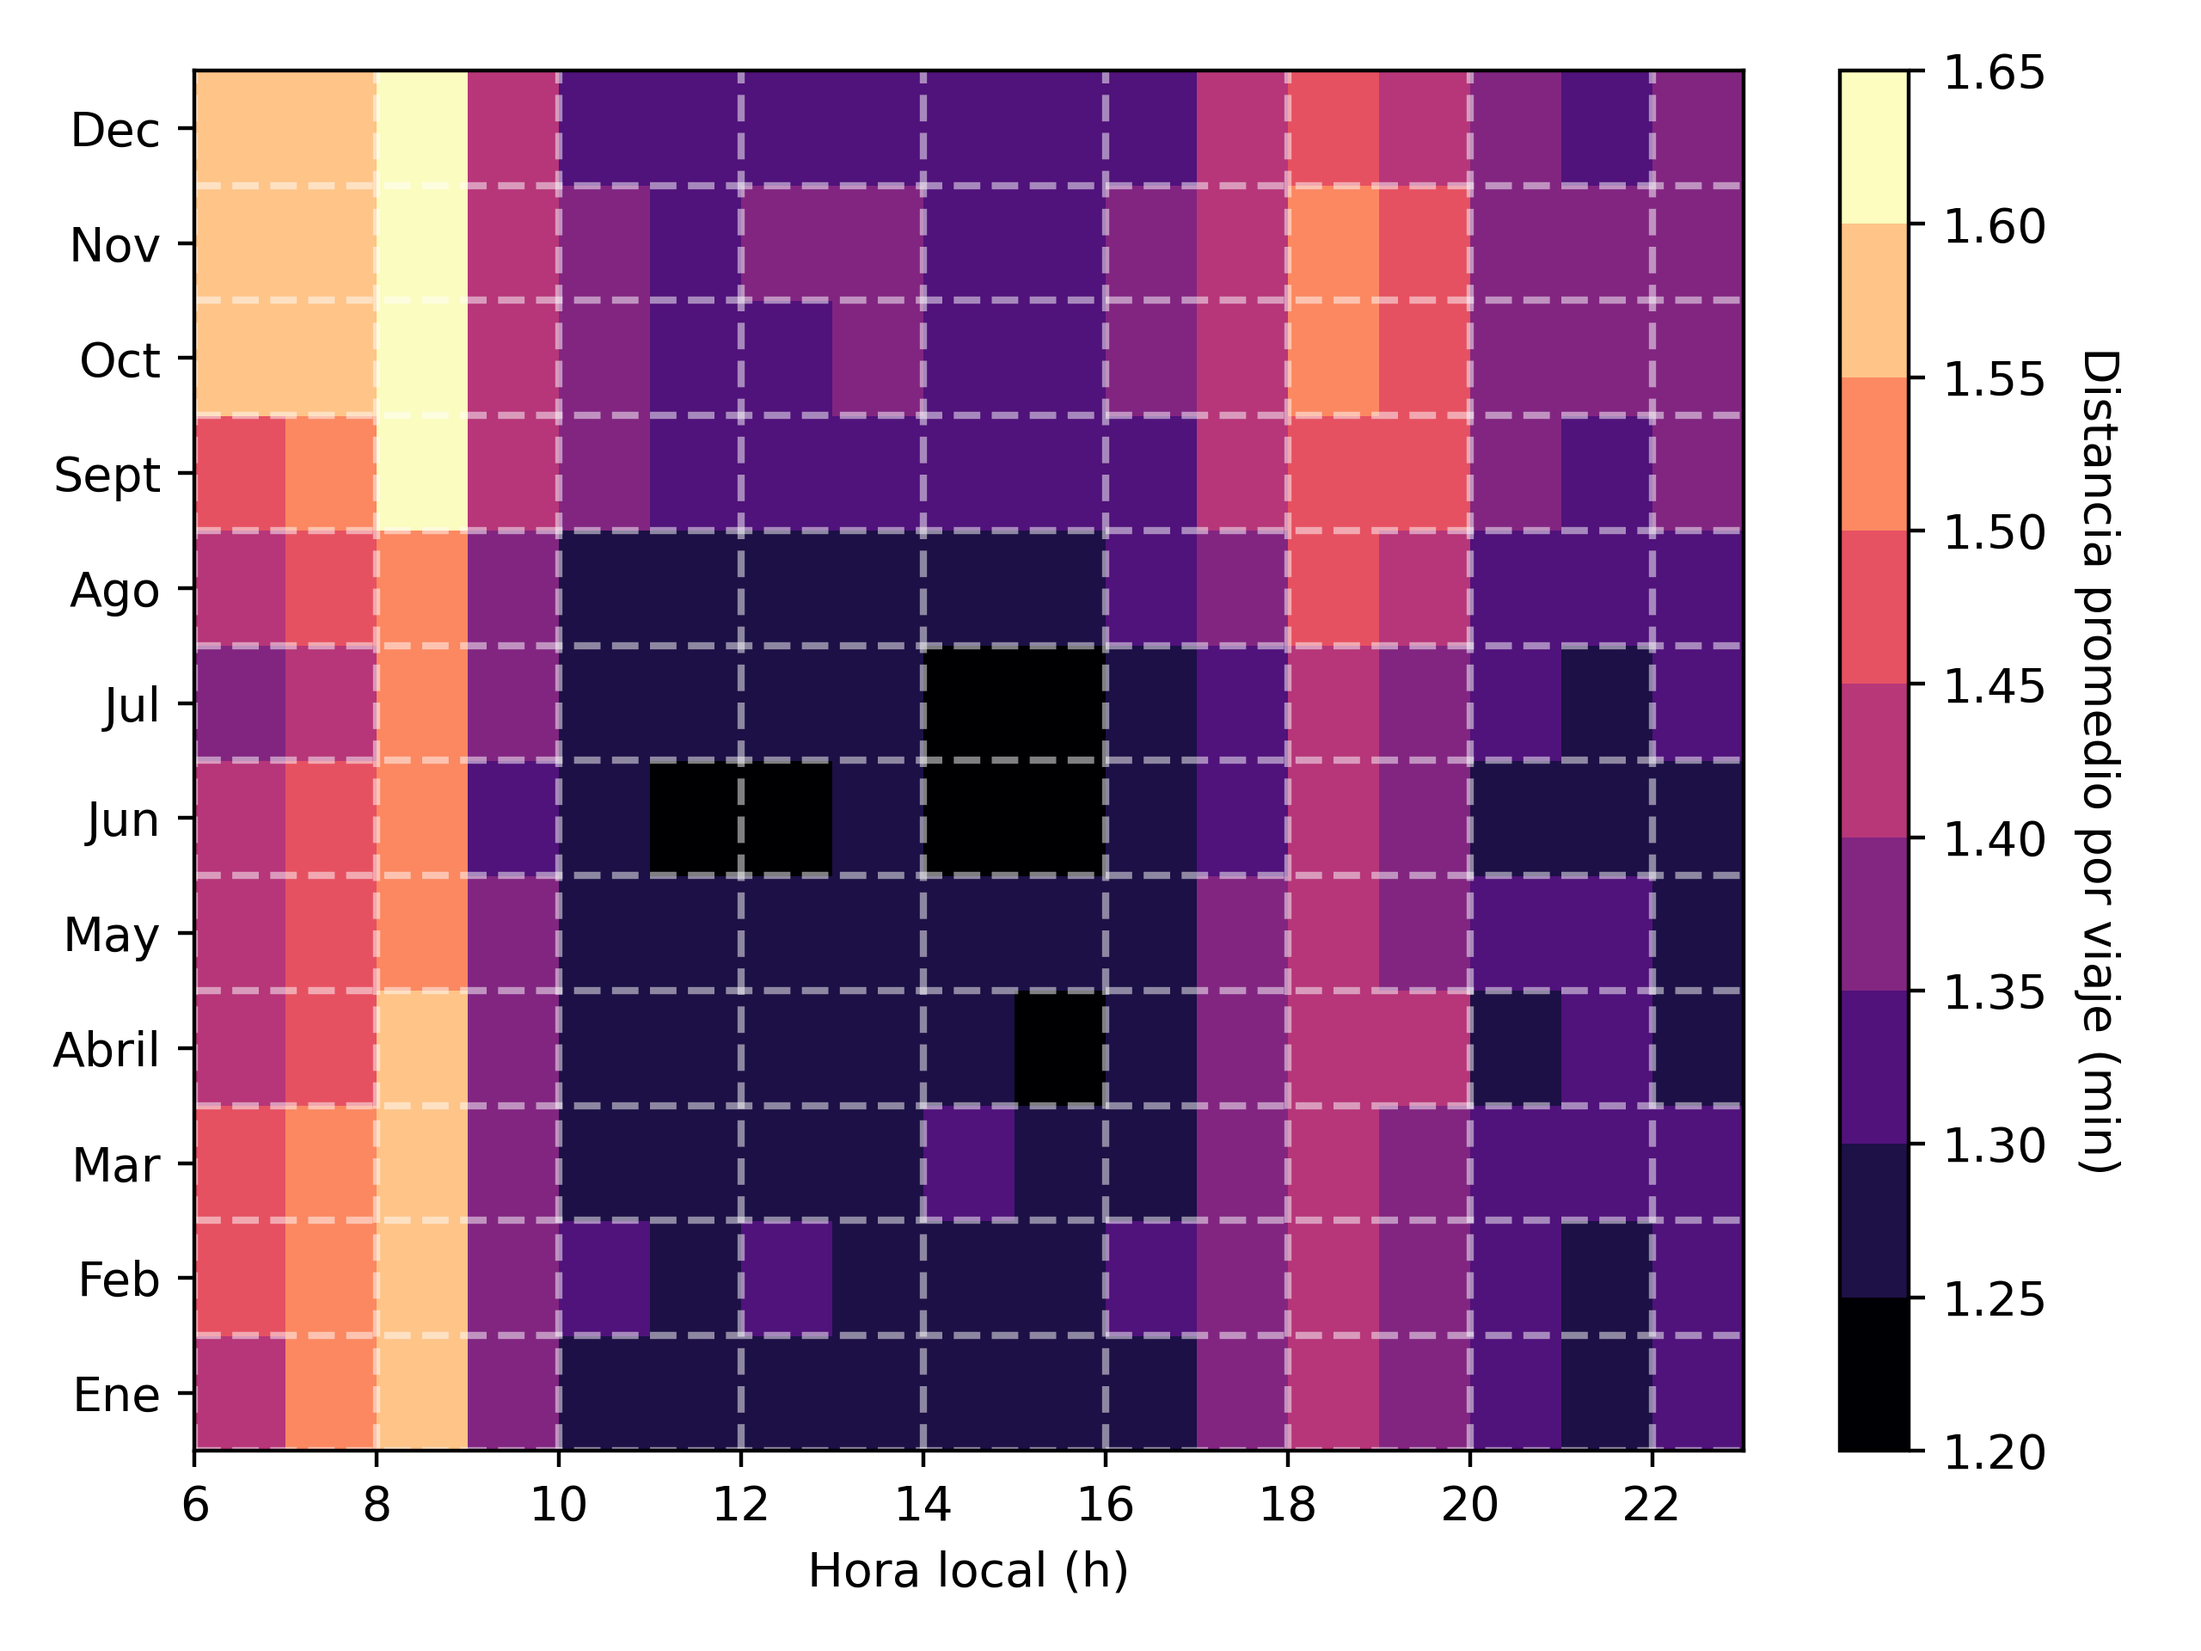
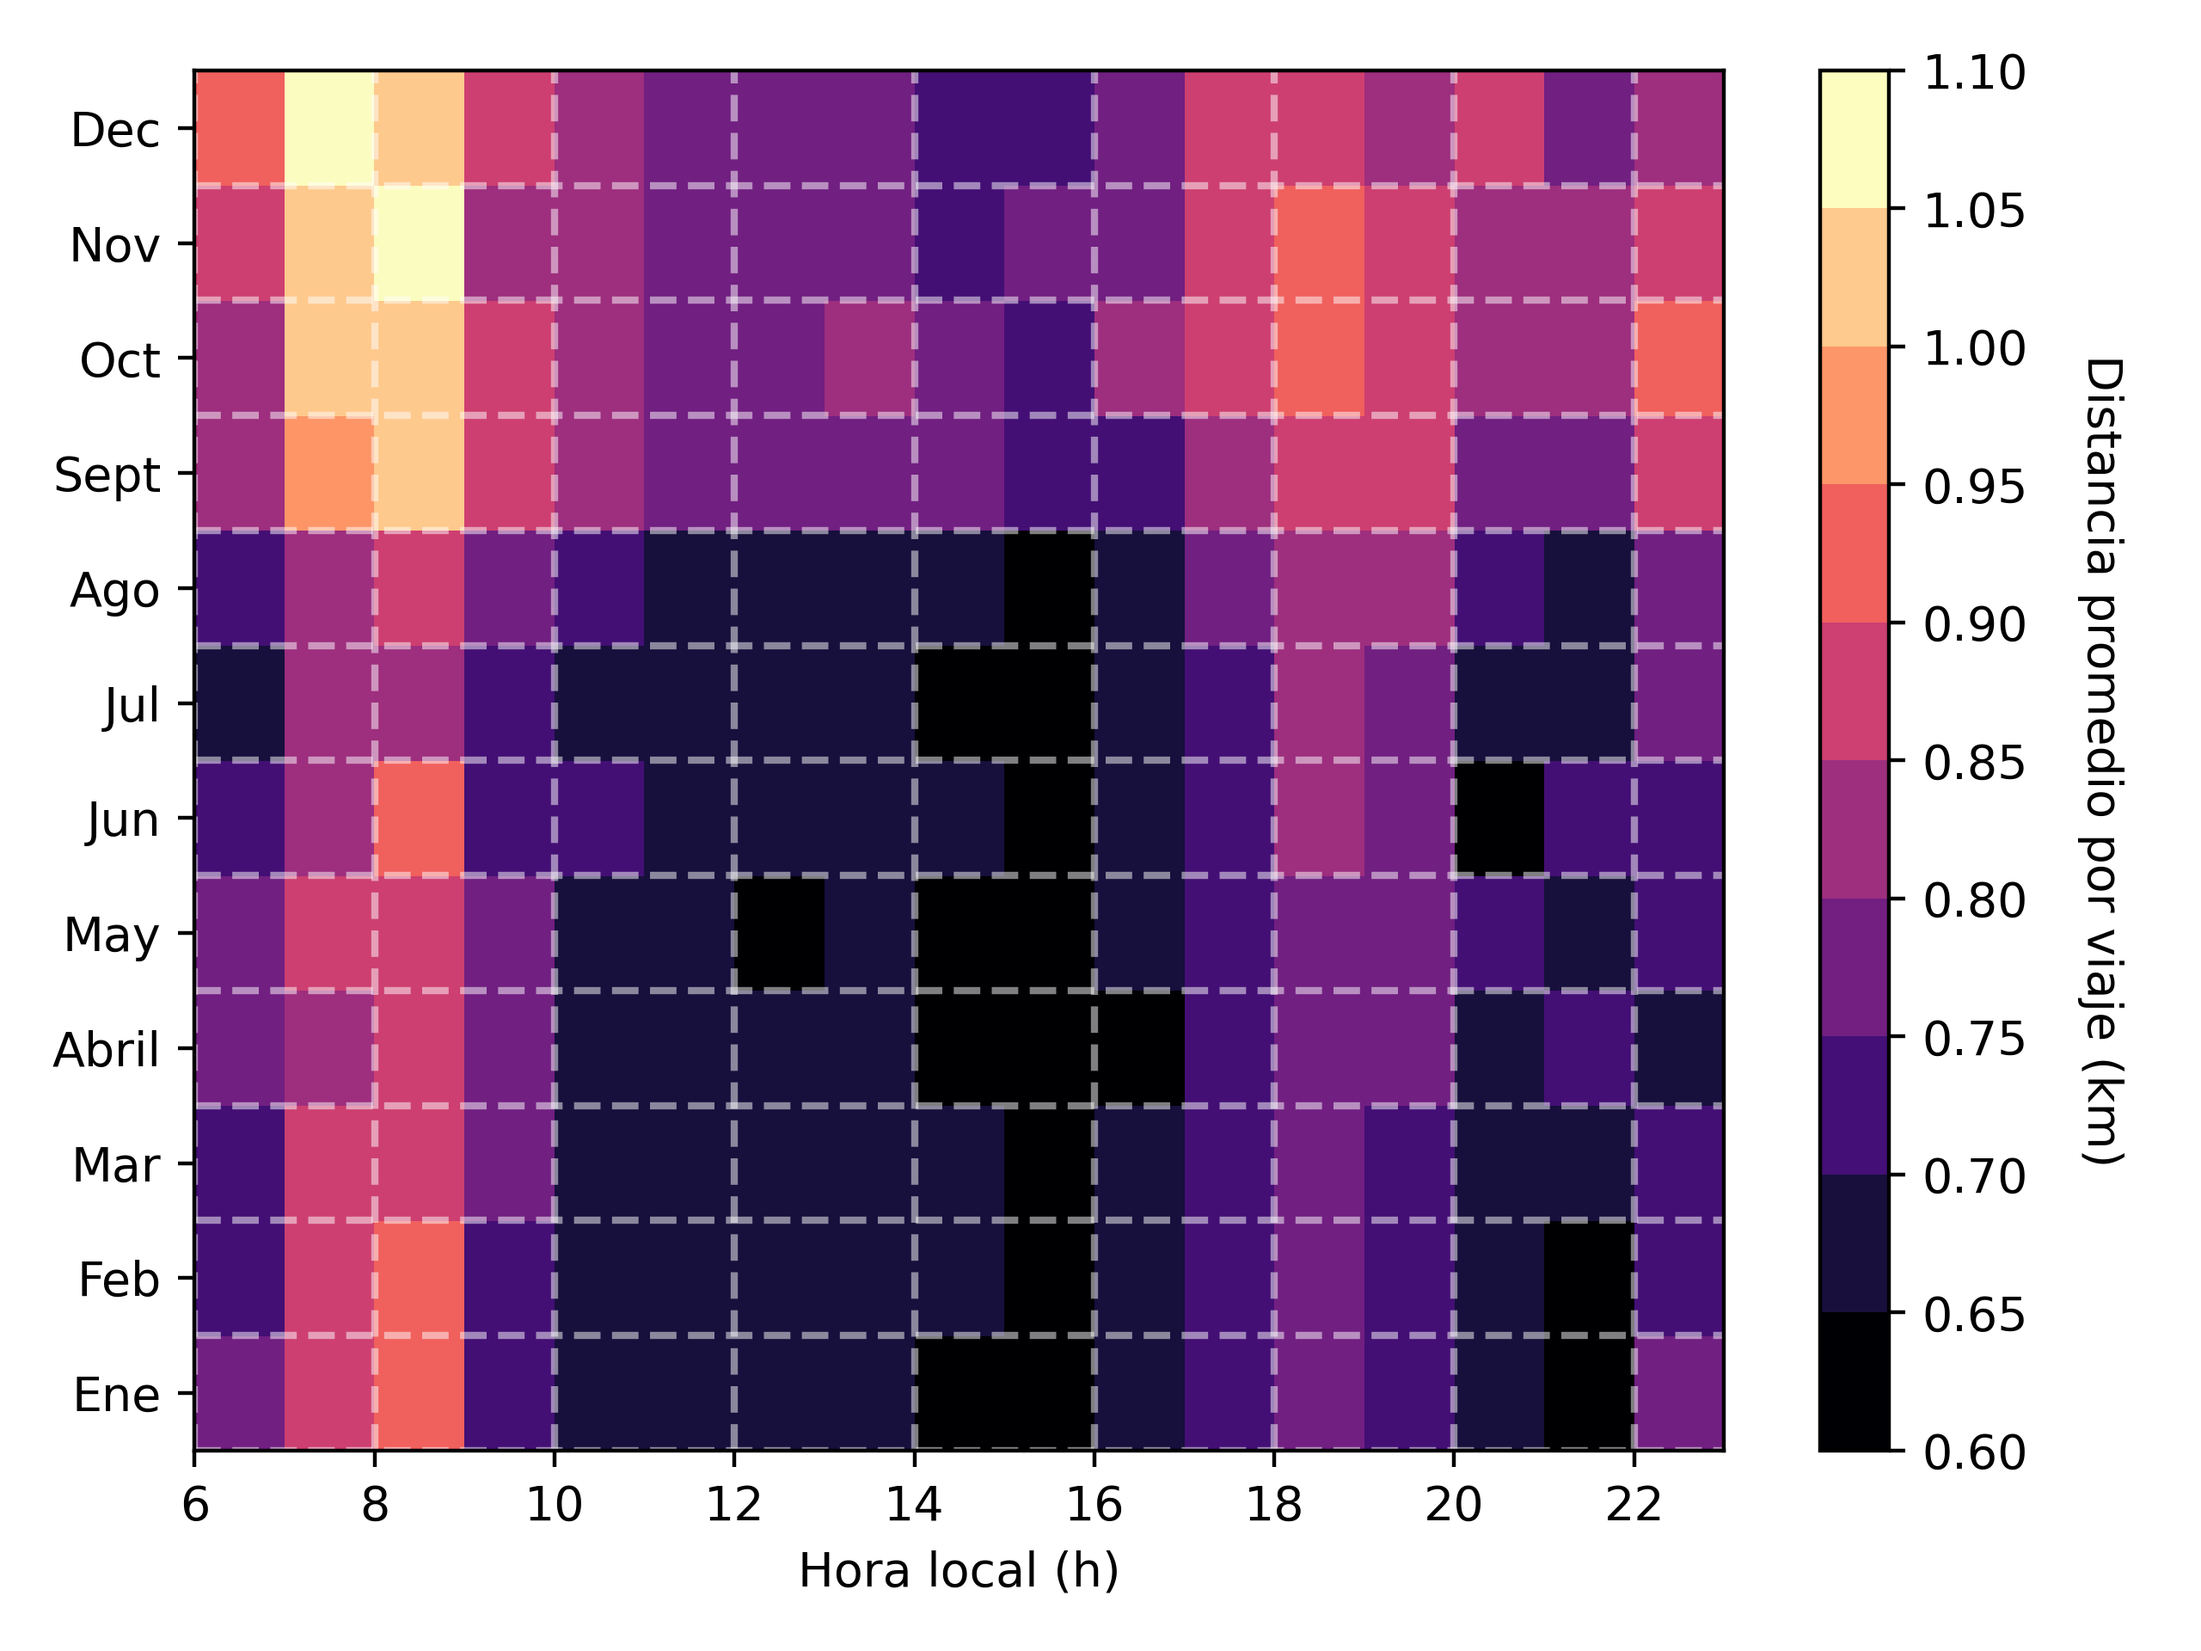
Change colobar ticks

diff --git a/Scripts/Graphics_monthly_and_hourly_mean_distance.py b/Scripts/Graphics_monthly_and_hourly_mean_distance.py
@@ -23,7 +23,7 @@ ylabels = ["Ene", "Feb", "Mar", "Abril", "May",
 data_mean = data_mean.drop(columns=[str(i) for i in range(6)])
 data_mean = data_mean.drop(columns="23")
 data_mean = np.array(data_mean)
-cmap = cm.get_cmap('magma', 9)
+cmap = cm.get_cmap('magma', 10)
 plt.xticks(xticks,
            xlabels)
 plt.yticks(yticks+0.5,
@@ -37,8 +37,8 @@ plt.grid(ls="--",
 plt.imshow(data_mean,
            origin="lower",
            cmap=cmap,
-           vmin=1.2,
-           vmax=1.65,
+           vmin=0.6,
+           vmax=1.1,
            aspect="auto")
 for ytick in yticks:
     plt.plot([xticks[0], 16.5],
@@ -47,7 +47,7 @@ for ytick in yticks:
              color="#ffffff",
              alpha=0.5,
              lw=1.5)
-cbar = plt.colorbar(ticks=np.round(np.linspace(1.2, 1.65, 10), 2))
+cbar = plt.colorbar(ticks=np.round(np.linspace(0.6, 1.1, 11), 2))
 cbar.set_label("Distancia promedio por viaje (km)",
                rotation=-90,
                labelpad=20)
